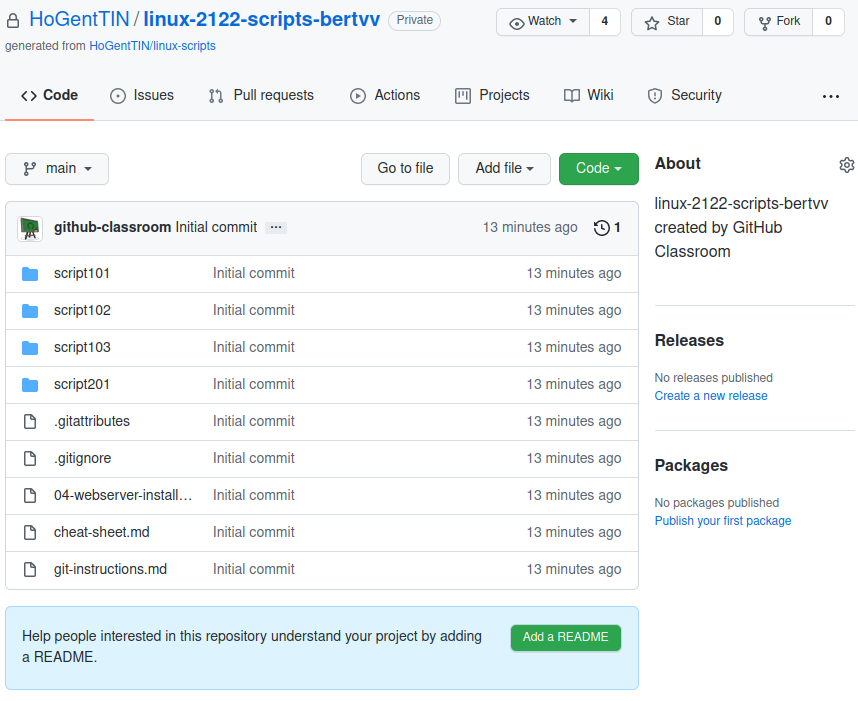
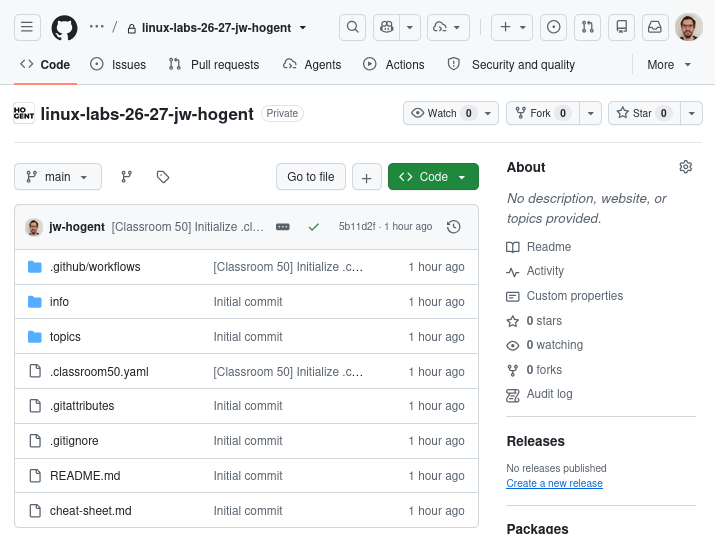
chore: update screenshots, examples

diff --git a/topics/git-survival-guide.md b/topics/git-survival-guide.md
@@ -142,21 +142,13 @@ Ga naar Orion, volg de link onderaan de studiewijzer om een Github-repo aan te m
 
 ---
 
-![](assets/create-repo-github-classroom.png)
-
----
-
-![](assets/create-repo-accepted.png)
-
----
-
 - Persoonlijke private Github-repository
 - Uitnodiging voor Github-organisatie "HogentTIN"
     - <https://github.com/HoGentTIN>
 
 ---
 
-<https://github.com/HoGentTIN/linux-2122-scripts-USERNAME>
+<https://github.com/HoGentTIN/linux-labs-26-27-USERNAME>
 
 ![](assets/create-repo-done.png)
 
@@ -173,7 +165,7 @@ Ga naar Orion, volg de link onderaan de studiewijzer om een Github-repo aan te m
     - Groene knop "<> Code"
     - Local, SSH, kopieer URL
 - Je hebt nu een lokale kopie van de Github-repo:
-    - `~/linux-2122-scripts-USERNAME`
+    - `~/linux-labs-26-27-USERNAME`
     - = directory met subdir `.git`
     - Verplaatsen, naam wijzigen mag!
 
@@ -186,19 +178,15 @@ Klik "Code", SSH, Kopieer de URL:
 ---
 
 ```console
-osboxes@osboxes:~$ git clone git@github.com:HoGentTIN/linux-2122-scripts-bertvv.git
-Cloning into 'linux-2122-scripts-bertvv'...
-The authenticity of host 'github.com (140.82.121.4)' can't be established.
-RSA key fingerprint is SHA256:nThbg6kXUpJWGl7E1IGOCspRomTxdCARLviKw6E5SY8.
-Are you sure you want to continue connecting (yes/no/[fingerprint])? yes
-Warning: Permanently added 'github.com,140.82.121.4' (RSA) to the list of known hosts.
-remote: Enumerating objects: 28, done.
-remote: Counting objects: 100% (28/28), done.
-remote: Compressing objects: 100% (25/25), done.
-remote: Total 28 (delta 1), reused 27 (delta 1), pack-reused 0
-Receiving objects: 100% (28/28), 17.54 KiB | 8.77 MiB/s, done.
-Resolving deltas: 100% (1/1), done.
-```
+hogent@LinuxGUI:~$ git clone git@github.com:HoGentTIN/linux-labs-26-27-jw-hogent.git
+Cloning into 'linux-labs-26-27-jw-hogent'...
+remote: Enumerating objects: 126, done.
+remote: Counting objects: 100% (126/126), done.
+remote: Compressing objects: 100% (104/104), done.
+remote: Total 126 (delta 9), reused 89 (delta 3), pack-reused 0 (from 0)
+Receiving objects: 100% (126/126), 1.24 MiB | 2.77 MiB/s, done.
+Resolving deltas: 100% (9/9), done.
+``
 
 ## Lokale wijzigingen
 
